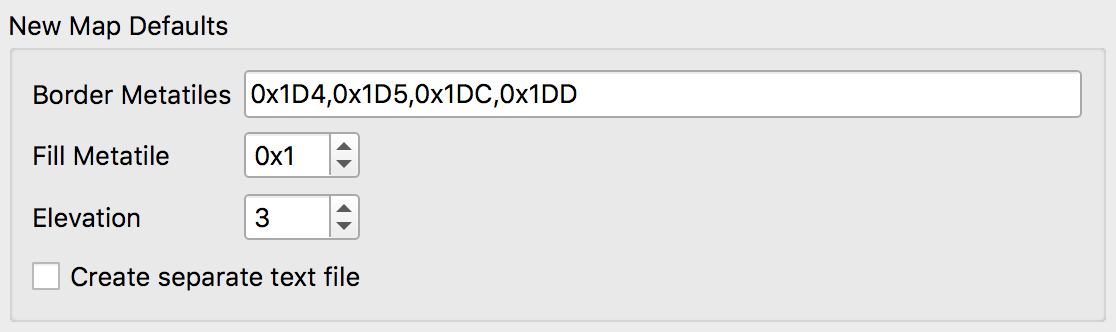
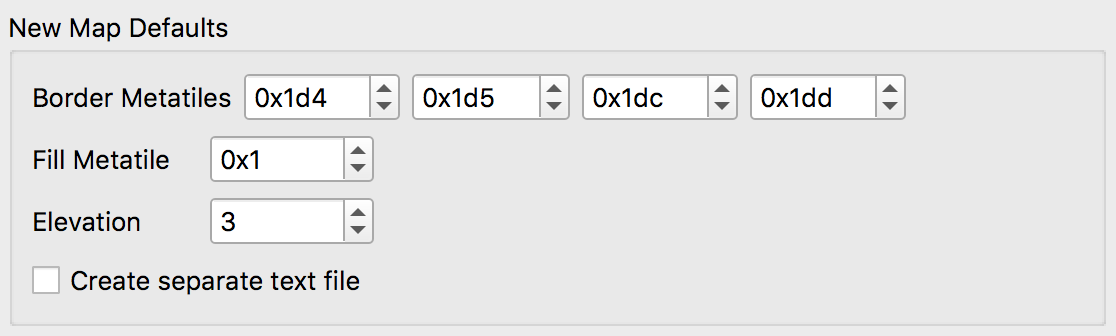
Use spin boxes for border metatile settings if using default size

diff --git a/src/ui/projectsettingseditor.cpp b/src/ui/projectsettingseditor.cpp
@@ -37,6 +37,13 @@ void ProjectSettingsEditor::connectSignals() {
     connect(ui->button_ImportDefaultPrefabs, &QAbstractButton::clicked, this, &ProjectSettingsEditor::importDefaultPrefabsClicked);
     connect(ui->comboBox_BaseGameVersion, &QComboBox::currentTextChanged, this, &ProjectSettingsEditor::promptRestoreDefaults);
     connect(ui->comboBox_AttributesSize, &QComboBox::currentTextChanged, this, &ProjectSettingsEditor::updateAttributeLimits);
+    connect(ui->checkBox_EnableCustomBorderSize, &QCheckBox::stateChanged, [this](int state) {
+        bool customSize = (state == Qt::Checked);
+        // When switching between the spin boxes or line edit for border metatiles we set
+        // the newly-shown UI using the values from the hidden UI.
+        this->setBorderMetatileIds(customSize, this->getBorderMetatileIds(!customSize));
+        this->setBorderMetatilesUi(customSize);
+    });
 
     // Record that there are unsaved changes if any of the settings are modified
     for (auto combo : ui->centralwidget->findChildren<NoScrollComboBox *>())
@@ -69,9 +76,49 @@ void ProjectSettingsEditor::initUi() {
     static const QRegularExpression expression(QString("^(%1,)*%1$").arg(regex_Hex)); // Comma-separated list of hex values
     QRegularExpressionValidator *validator = new QRegularExpressionValidator(expression);
     ui->lineEdit_BorderMetatiles->setValidator(validator);
+    this->setBorderMetatilesUi(projectConfig.getUseCustomBorderSize());
 
+    int maxMetatileId = Project::getNumMetatilesTotal() - 1;
+    ui->spinBox_FillMetatile->setMaximum(maxMetatileId);
+    ui->spinBox_BorderMetatile1->setMaximum(maxMetatileId);
+    ui->spinBox_BorderMetatile2->setMaximum(maxMetatileId);
+    ui->spinBox_BorderMetatile3->setMaximum(maxMetatileId);
+    ui->spinBox_BorderMetatile4->setMaximum(maxMetatileId);
     ui->spinBox_Elevation->setMaximum(15);
-    ui->spinBox_FillMetatile->setMaximum(Project::getNumMetatilesTotal() - 1);
+}
+
+void ProjectSettingsEditor::setBorderMetatilesUi(bool customSize) {
+    ui->widget_DefaultSizeBorderMetatiles->setVisible(!customSize);
+    ui->widget_CustomSizeBorderMetatiles->setVisible(customSize);
+}
+
+void ProjectSettingsEditor::setBorderMetatileIds(bool customSize, QList<uint16_t> metatileIds) {
+    if (customSize) {
+        ui->lineEdit_BorderMetatiles->setText(Metatile::getMetatileIdStringList(metatileIds));
+    } else {
+        ui->spinBox_BorderMetatile1->setValue(metatileIds.value(0, 0x0));
+        ui->spinBox_BorderMetatile2->setValue(metatileIds.value(1, 0x0));
+        ui->spinBox_BorderMetatile3->setValue(metatileIds.value(2, 0x0));
+        ui->spinBox_BorderMetatile4->setValue(metatileIds.value(3, 0x0));
+    }
+}
+
+QList<uint16_t> ProjectSettingsEditor::getBorderMetatileIds(bool customSize) {
+    QList<uint16_t> metatileIds;
+    if (customSize) {
+        // Custom border size, read metatiles from line edit
+        for (auto s : ui->lineEdit_BorderMetatiles->text().split(",")) {
+            uint16_t metatileId = s.toUInt(nullptr, 0);
+            metatileIds.append(qMin(metatileId, static_cast<uint16_t>(Project::getNumMetatilesTotal() - 1)));
+        }
+    } else {
+        // Default border size, read metatiles from spin boxes
+        metatileIds.append(ui->spinBox_BorderMetatile1->value());
+        metatileIds.append(ui->spinBox_BorderMetatile2->value());
+        metatileIds.append(ui->spinBox_BorderMetatile3->value());
+        metatileIds.append(ui->spinBox_BorderMetatile4->value());
+    }
+    return metatileIds;
 }
 
 void ProjectSettingsEditor::updateAttributeLimits(const QString &attrSize) {
@@ -186,8 +233,12 @@ void ProjectSettingsEditor::refresh() {
     ui->spinBox_LayerTypeMask->setValue(projectConfig.getMetatileLayerTypeMask());
     ui->spinBox_TerrainTypeMask->setValue(projectConfig.getMetatileTerrainTypeMask());
 
+    // Set (and sync) border metatile IDs
+    auto metatileIds = projectConfig.getNewMapBorderMetatileIds();
+    this->setBorderMetatileIds(false, metatileIds);
+    this->setBorderMetatileIds(true, metatileIds);
+
     // Set line edit texts
-    ui->lineEdit_BorderMetatiles->setText(projectConfig.getNewMapBorderMetatileIdsString());
     ui->lineEdit_PrefabsPath->setText(projectConfig.getPrefabFilepath());
     for (auto lineEdit : ui->scrollAreaContents_ProjectPaths->findChildren<QLineEdit*>())
         lineEdit->setText(projectConfig.getFilePath(lineEdit->objectName(), true));
@@ -230,14 +281,7 @@ void ProjectSettingsEditor::save() {
     projectConfig.setPrefabFilepath(ui->lineEdit_PrefabsPath->text());
     for (auto lineEdit : ui->scrollAreaContents_ProjectPaths->findChildren<QLineEdit*>())
         projectConfig.setFilePath(lineEdit->objectName(), lineEdit->text());
-
-    // Parse and save border metatile list
-    QList<uint16_t> metatileIds;
-    for (auto s : ui->lineEdit_BorderMetatiles->text().split(",")) {
-        uint16_t metatileId = s.toUInt(nullptr, 0);
-        metatileIds.append(qMin(metatileId, static_cast<uint16_t>(Project::getNumMetatilesTotal() - 1)));
-    }
-    projectConfig.setNewMapBorderMetatileIds(metatileIds);
+    projectConfig.setNewMapBorderMetatileIds(this->getBorderMetatileIds(ui->checkBox_EnableCustomBorderSize->isChecked()));
 
     projectConfig.setSaveDisabled(false);
     projectConfig.save();

diff --git a/src/config.cpp b/src/config.cpp
@@ -735,7 +735,7 @@ QMap<QString, QString> ProjectConfig::getKeyValueMap() {
     map.insert("enable_triple_layer_metatiles", QString::number(this->enableTripleLayerMetatiles));
     map.insert("new_map_metatile", Metatile::getMetatileIdString(this->newMapMetatileId));
     map.insert("new_map_elevation", QString::number(this->newMapElevation));
-    map.insert("new_map_border_metatiles", this->getNewMapBorderMetatileIdsString());
+    map.insert("new_map_border_metatiles", Metatile::getMetatileIdStringList(this->newMapBorderMetatileIds));
     map.insert("default_primary_tileset", this->defaultPrimaryTileset);
     map.insert("default_secondary_tileset", this->defaultSecondaryTileset);
     map.insert("prefabs_filepath", this->prefabFilepath);
@@ -981,14 +981,6 @@ void ProjectConfig::setNewMapBorderMetatileIds(QList<uint16_t> metatileIds) {
 
 QList<uint16_t> ProjectConfig::getNewMapBorderMetatileIds() {
     return this->newMapBorderMetatileIds;
-}
-
-QString ProjectConfig::getNewMapBorderMetatileIdsString() {
-    QStringList metatiles;
-    for (auto metatileId : this->newMapBorderMetatileIds){
-        metatiles << Metatile::getMetatileIdString(metatileId);
-    }
-    return metatiles.join(",");
 }
 
 QString ProjectConfig::getDefaultPrimaryTileset() {

diff --git a/include/core/metatile.h b/include/core/metatile.h
@@ -93,7 +93,15 @@ public:
     static QPoint coordFromPixmapCoord(const QPointF &pixelCoord);
     static int getDefaultAttributesSize(BaseGameVersion version);
     static void setCustomLayout(Project*);
-    static QString getMetatileIdString(uint16_t metatileId) { return "0x" + QString("%1").arg(metatileId, 3, 16, QChar('0')).toUpper(); };
+    static QString getMetatileIdString(uint16_t metatileId) {
+        return "0x" + QString("%1").arg(metatileId, 3, 16, QChar('0')).toUpper();
+    };
+    static QString getMetatileIdStringList(const QList<uint16_t> metatileIds) {
+        QStringList metatiles;
+        for (auto metatileId : metatileIds)
+            metatiles << Metatile::getMetatileIdString(metatileId);
+        return metatiles.join(",");
+    };
 
 private:
     // Stores how each attribute should be laid out for all metatiles, according to the user's config

diff --git a/src/project.cpp b/src/project.cpp
@@ -444,10 +444,6 @@ bool Project::readMapLayouts() {
         "blockdata_filepath",
     };
     bool useCustomBorderSize = projectConfig.getUseCustomBorderSize();
-    if (useCustomBorderSize) {
-        requiredFields.append("border_width");
-        requiredFields.append("border_height");
-    }
     for (int i = 0; i < layouts.size(); i++) {
         QJsonObject layoutObj = layouts[i].toObject();
         if (layoutObj.isEmpty())

diff --git a/include/ui/projectsettingseditor.h b/include/ui/projectsettingseditor.h
@@ -42,6 +42,10 @@ private:
     bool promptSaveChanges();
     bool promptRestoreDefaults();
 
+    void setBorderMetatilesUi(bool customSize);
+    void setBorderMetatileIds(bool customSize, QList<uint16_t> metatileIds);
+    QList<uint16_t> getBorderMetatileIds(bool customSize);
+
     void createProjectPathsTable();
     QString chooseProjectFile(const QString &defaultFilepath);
 

diff --git a/include/config.h b/include/config.h
@@ -267,7 +267,6 @@ public:
     int getNewMapElevation();
     void setNewMapBorderMetatileIds(QList<uint16_t> metatileIds);
     QList<uint16_t> getNewMapBorderMetatileIds();
-    QString getNewMapBorderMetatileIdsString();
     QString getDefaultPrimaryTileset();
     QString getDefaultSecondaryTileset();
     void setDefaultPrimaryTileset(QString tilesetName);

diff --git a/docsrc/manual/settings-and-options.rst b/docsrc/manual/settings-and-options.rst
@@ -81,9 +81,11 @@ New Map Defaults
    :alt: New Map Defaults
 
 Border Metatiles
-   This is a comma-separated list of metatile ID values that will be used to fill the border on new maps. If the number of metatiles in the border is not the same as the number of values in the list then the border will be filled with metatile ID ``0x000`` instead.
+   This is list of metatile ID values that will be used to fill the border on new maps. The spin boxes correspond to the top-left, top-right, bottom-left, and bottom-right border metatiles respectively.
 
-   Defaults to ``0x014,0x015,0x01C,0x01D`` for ``pokefirered``, and ``0x1D4,0x1D5,0x1DC,0x1DD`` for other versions.
+   If ``Enable Custom Border Size`` is checked, this will instead be a comma-separated list of metatile ID values that will be used to fill the border on new maps. Values in the list will be read sequentially to fill the new border left-to-right top-to-bottom. If the number of metatiles in the border for a new map is not the same as the number of values in the list then the border will be filled with metatile ID ``0x000`` instead.
+
+   Defaults to ``0x014``, ``0x015``, ``0x01C``, ``0x01D`` for ``pokefirered``, and ``0x1D4``, ``0x1D5``, ``0x1DC``, ``0x1DD`` for other versions.
 
    Field name: ``new_map_border_metatiles``
 
